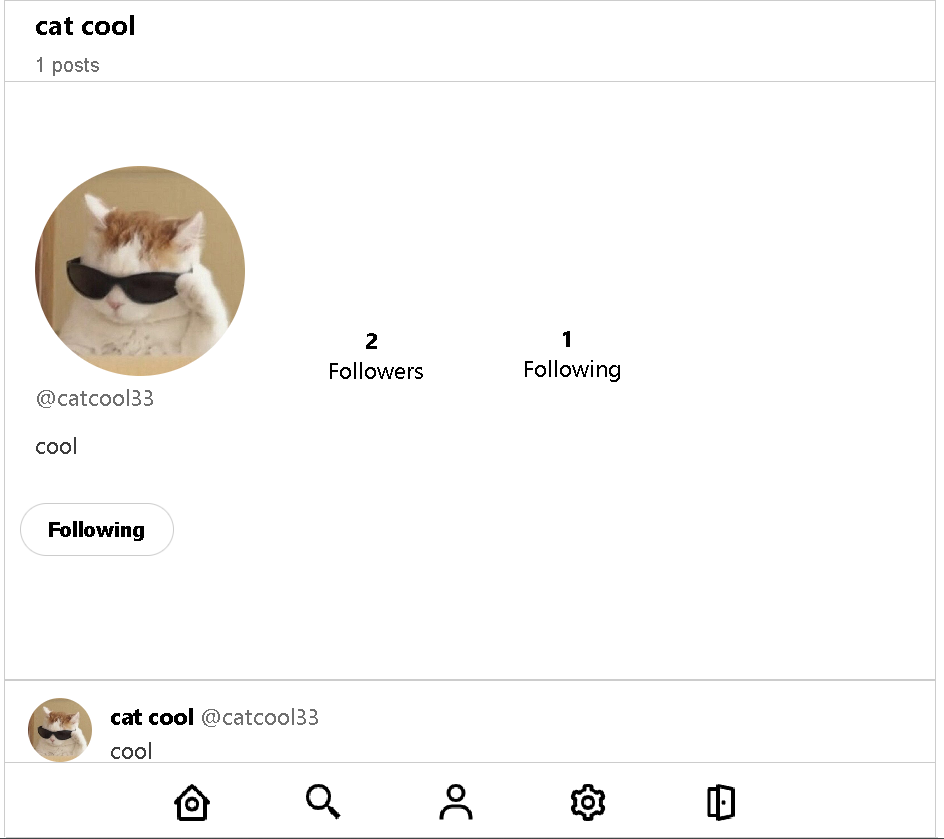
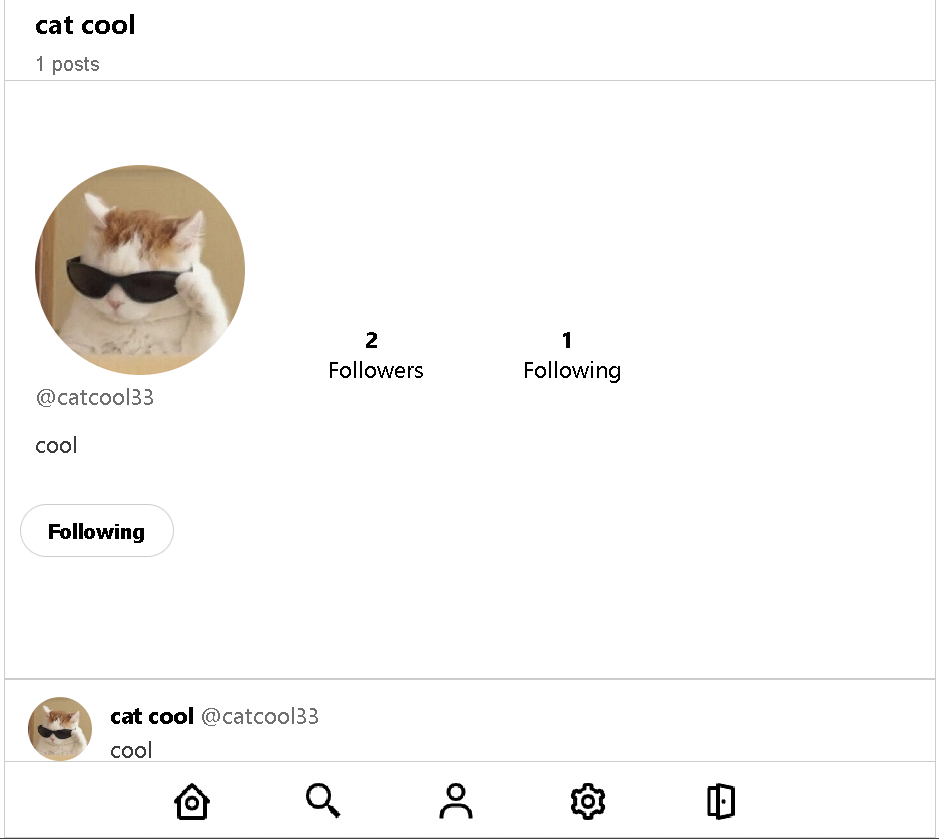
Add screenshots

diff --git a/client/public/css/profile.css b/client/public/css/profile.css
@@ -66,7 +66,7 @@ body {
 
 .user-followto {
   margin-left: 360px;
-  margin-top: -41.5px;
+  margin-top: -40px;
   font-weight: bold;
   font-size: 15px;
   font-family: 'Segoe UI', Tahoma, Geneva, Verdana, sans-serif;
